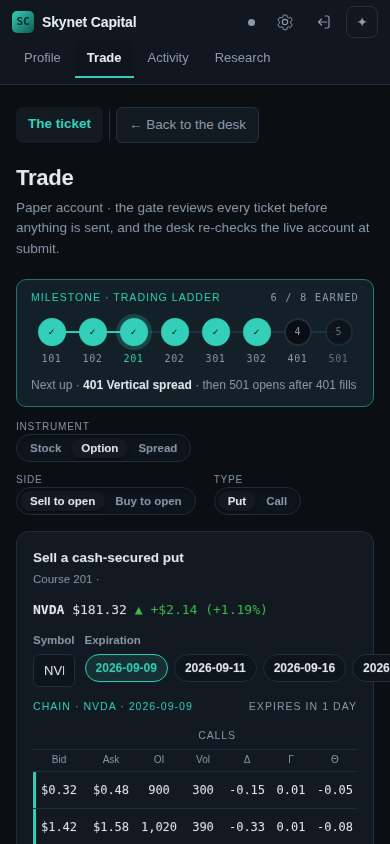
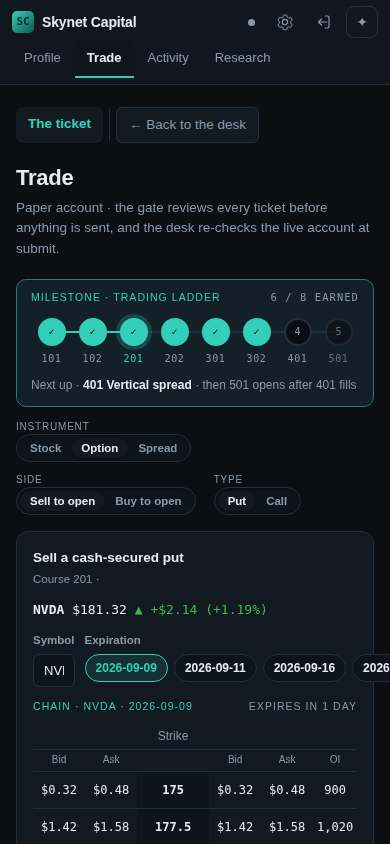
fix(trade): centre the chain's base five columns, greeks/OI/vol scroll outward
Summary: the unscrolled straddle view was showing calls' OI/Vol/greeks instead
of Strike and the Puts side — a real regression against this component's own
core promise (five columns visible by default, nothing else). Reordered each
side's 8 columns so Bid/Ask stays adjacent to Strike (matching the base view
exactly) with the 6 stat columns moved to the outer edge, and the scroll
container now opens with an initial `scrollLeft` offset so the base five are
what's actually on screen, not merely reachable by scrolling.

Why: mobile-first curation (CLAUDE.md) requires the base five to be the
default view a member sees at 390px, never gated behind a scroll they don't
know to make.

Fix to #2017 Phase 1 slice 14, found in review.

Claude-Session: https://claude.ai/code/session_01Fz8US5DNYihvfhG2c9Kpcb

Changed region(s): [[0.3692, 0.8626, 0.9231, 0.9858], [0.0615, 0.9242, 0.0923, 1.0], [0.3077, 0.9242, 0.3385, 0.9858]]

diff --git a/app/src/shell/straddle-view.tsx b/app/src/shell/straddle-view.tsx
@@ -1,5 +1,5 @@
 import type { ReactElement } from "react";
-import { useState } from "react";
+import { useEffect, useRef, useState } from "react";
 import type { ChainRow } from "../live/options";
 import {
   daysToExpiry,
@@ -18,6 +18,13 @@ import { EarningsBadge } from "./earnings-badge";
  *  markup can never drift apart. */
 const TOTAL_COLUMNS = 17;
 
+/** Width of calls' 6 stat columns (`OI, Vol, Δ, Γ, Θ, Vega`) in px — the initial `scrollLeft`
+ *  offset that opens the view on the base five instead of calls' stats (see the FIX note above).
+ *  `44` mirrors `.straddle-col-stat`'s width in `straddle.css`; there's no clean way to share a
+ *  single literal across the `.ts`/`.css` boundary, so keep the two in sync by hand if either
+ *  changes. */
+const CALLS_STAT_WIDTH = 6 * 44;
+
 /**
  * THE STRADDLE VIEW (#1481, slice 1) — one expiration's chain as the entry instrument: strike down
  * the centre, call bid/ask to the left, put bid/ask to the right, a "Current price" divider row,
@@ -26,15 +33,29 @@ const TOTAL_COLUMNS = 17;
  * interest and the four core greeks now ship too (#2017 Phase 1 slice 14, below) — last trade
  * price is still out of scope, the one column this component's base-five promise still owes.
  *
- * Mobile-first: five narrow mono columns fit 390px without scrolling; the window keeps ±8 strikes
- * around the divider and says how many it hid. A row click is a PRESET — it hands the strike to
- * the ticket's `pickStrike`, which also seeds the limit from the quoted mid. Nothing here prices
- * anything: every number is the server's, drawn verbatim, "—" where the feed had none.
+ * Mobile-first: the base five (Calls Bid/Ask, Strike, Puts Bid/Ask) are what's actually ON SCREEN
+ * at 390px, by construction, not just by column count — see the fix below. The window keeps ±8
+ * strikes around the divider and says how many it hid. A row click is a PRESET — it hands the
+ * strike to the ticket's `pickStrike`, which also seeds the limit from the quoted mid. Nothing
+ * here prices anything: every number is the server's, drawn verbatim, "—" where the feed had none.
  *
  * Open interest, volume, and the four core greeks (delta/gamma/theta/vega) ship as scroll-out
- * columns past the base five (#2017 Phase 1 slice 14) — the SAME `.straddle-scroll` horizontal
- * container, just more columns, exactly as this comment used to promise. They are plain, never
- * clickable (only Bid/Ask/Strike are presets). "Last trade price" and rho stay out of scope.
+ * columns past the base five (#2017 Phase 1 slice 14), in the SAME `.straddle-scroll` horizontal
+ * container, just more columns. They are plain, never clickable (only Bid/Ask/Strike are presets).
+ * "Last trade price" and rho stay out of scope.
+ *
+ * FIX (found in review, #2017 Phase 1 slice 14): the six stat columns per side originally sat
+ * BETWEEN Bid/Ask and Strike (`Bid, Ask, OI, Vol, Δ, Γ, Θ, Vega`), so an unscrolled 390px view —
+ * `.straddle-scroll` starts at `scrollLeft: 0` — showed calls' stats instead of Strike and the
+ * Puts side, breaking the base-five promise above. Fixed two ways together: (1) each side's 8
+ * columns are now ordered with the stats on the OUTER edge, away from Strike — Calls reads
+ * `OI, Vol, Δ, Γ, Θ, Vega, Bid, Ask` (stats then Bid/Ask, closest to Strike), Puts reads
+ * `Bid, Ask, OI, Vol, Δ, Γ, Θ, Vega` (Bid/Ask closest to Strike, then stats) — so Bid/Ask/Strike
+ * are contiguous in the DOM; (2) the scroll container opens with an initial `scrollLeft` offset
+ * (see the mount effect below) equal to the width of calls' six stat columns, so that contiguous
+ * base five is what's actually visible by default, not merely reachable. A member can still swipe
+ * LEFT of that offset for calls' OI/Vol/greeks, or RIGHT past Puts' Bid/Ask for puts' OI/Vol/
+ * greeks — both directions, both discoverable via the same "scroll for more" affordance.
  *
  * A call or put PRICE cell can be its own preset too (#2017 Phase 0 task 4e, `onPickSide`): the
  * caller decides what a call/put pick means (in `OptionGate`, it can also switch Side/Type when
@@ -71,6 +92,20 @@ export function StraddleView({
   const all = mergeStraddle(calls, puts);
   const { rows, hidden } = showAll ? { rows: all, hidden: 0 } : windowRows(all, spot);
   const divider = dividerIndex(rows, spot);
+  const scrollRef = useRef<HTMLDivElement>(null);
+  // Open centred on the base five (Calls Bid/Ask, Strike, Puts Bid/Ask) — see the header comment's
+  // FIX note. A plain `scrollLeft` assignment (not `scrollTo({ behavior: "smooth" })`) is instant,
+  // not animated, so it respects `prefers-reduced-motion` for free — there's no motion to reduce.
+  // `StraddleView` isn't remounted per expiration (no `key` at either call site,
+  // `chain-straddle.tsx` / `option-gate.tsx`), so `symbol`/`expiration` ARE the trigger for
+  // re-running this on a fresh chain rather than relying on a fresh mount; it does NOT depend on
+  // `selectedStrike` or other props, so picking a strike never resets a member's own scroll
+  // position.
+  // biome-ignore lint/correctness/useExhaustiveDependencies: symbol/expiration ARE the trigger
+  useEffect(() => {
+    const el = scrollRef.current;
+    if (el) el.scrollLeft = CALLS_STAT_WIDTH;
+  }, [symbol, expiration]);
   return (
     <section className="straddle" aria-label={`Options chain for ${symbol}`}>
       <div className="straddle-head">
@@ -80,7 +115,7 @@ export function StraddleView({
         <span className="straddle-dte">{expiresIn(daysToExpiry(expiration, now))}</span>
       </div>
       <EarningsBadge symbol={symbol} now={now} />
-      <div className="straddle-scroll">
+      <div className="straddle-scroll" ref={scrollRef}>
         <table className="straddle-table">
           <colgroup>
             {/* Bid/Ask/OI/Vol/Δ/Γ/Θ/Vega × 2 sides + Strike = 17 columns total (`TOTAL_COLUMNS`).
@@ -88,15 +123,16 @@ export function StraddleView({
                 container and `.straddle-scroll`'s overflow-x kicks in, instead of the 5-column
                 percentage layout compressing to fit — `table-layout: fixed` only honors the FIRST
                 row's per-column cells, and that row is the colSpan=8 group header, so widths live
-                on `<col>` here rather than on the sub-header `<th>`s below. */}
+                on `<col>` here rather than on the sub-header `<th>`s below. Order per side matches
+                the fix above: stats on the OUTER edge, Bid/Ask adjacent to Strike. */}
+            <col className="straddle-col-stat" />
+            <col className="straddle-col-stat" />
+            <col className="straddle-col-stat" />
+            <col className="straddle-col-stat" />
+            <col className="straddle-col-stat" />
+            <col className="straddle-col-stat" />
             <col className="straddle-col-bidask" />
             <col className="straddle-col-bidask" />
-            <col className="straddle-col-stat" />
-            <col className="straddle-col-stat" />
-            <col className="straddle-col-stat" />
-            <col className="straddle-col-stat" />
-            <col className="straddle-col-stat" />
-            <col className="straddle-col-stat" />
             <col className="straddle-col-strike" />
             <col className="straddle-col-bidask" />
             <col className="straddle-col-bidask" />
@@ -118,14 +154,14 @@ export function StraddleView({
               </th>
             </tr>
             <tr className="straddle-sub">
-              <th>Bid</th>
-              <th>Ask</th>
               <th className="straddle-stat">OI</th>
               <th className="straddle-stat">Vol</th>
               <th className="straddle-stat">Δ</th>
               <th className="straddle-stat">Γ</th>
               <th className="straddle-stat">Θ</th>
               <th className="straddle-stat">Vega</th>
+              <th>Bid</th>
+              <th>Ask</th>
               <th />
               <th>Bid</th>
               <th>Ask</th>
@@ -204,14 +240,14 @@ function RowGroup({
     <>
       {divider && spot !== undefined ? <DividerRow spot={spot} /> : null}
       <tr className={cls} onClick={onPick ? () => onPick(row.strike) : undefined}>
-        <SideCell value={row.call?.bid} strike={row.strike} side="call" onPickSide={onPickSide} />
-        <SideCell value={row.call?.ask} strike={row.strike} side="call" onPickSide={onPickSide} />
         <StatCell value={row.call?.openInterest} kind="count" />
         <StatCell value={row.call?.volume} kind="count" />
         <StatCell value={row.call?.delta} kind="greek" />
         <StatCell value={row.call?.gamma} kind="greek" />
         <StatCell value={row.call?.theta} kind="greek" />
         <StatCell value={row.call?.vega} kind="greek" />
+        <SideCell value={row.call?.bid} strike={row.strike} side="call" onPickSide={onPickSide} />
+        <SideCell value={row.call?.ask} strike={row.strike} side="call" onPickSide={onPickSide} />
         <td className="straddle-strike num">
           {onPick ? (
             <button

diff --git a/app/tests/shell/straddle-view.spec.tsx b/app/tests/shell/straddle-view.spec.tsx
@@ -180,4 +180,77 @@ describe("StraddleView — scroll-out stat columns", () => {
     const divider = container.querySelector(".straddle-divider td");
     expect(divider?.getAttribute("colspan")).toBe("17");
   });
+
+  it("orders calls' stats on the outer edge and Bid/Ask adjacent to Strike, mirrored on puts", () => {
+    const { container } = render(
+      <StraddleView
+        symbol="NVDA"
+        expiration="2026-09-18"
+        spot={180}
+        calls={[fullRow]}
+        puts={[fullPut]}
+      />,
+    );
+    const subHeaders = Array.from(container.querySelectorAll(".straddle-sub th")).map(
+      (th) => th.textContent,
+    );
+    // Calls: stats first (outer edge), then Bid/Ask (adjacent to Strike) — Puts: unchanged.
+    expect(subHeaders).toEqual([
+      "OI",
+      "Vol",
+      "Δ",
+      "Γ",
+      "Θ",
+      "Vega",
+      "Bid",
+      "Ask",
+      "", // Strike's empty sub-header cell.
+      "Bid",
+      "Ask",
+      "OI",
+      "Vol",
+      "Δ",
+      "Γ",
+      "Θ",
+      "Vega",
+    ]);
+
+    const rowCells = Array.from(
+      container.querySelectorAll("tbody tr.straddle-row")[0]?.children ?? [],
+    );
+    // Same order in the body row: calls' first cell is the OI stat, not Bid — the outer edge — and
+    // the 7th/8th cells (Bid/Ask) sit immediately left of Strike (the 9th).
+    expect(rowCells[0]?.textContent).toBe("8,213"); // calls OI
+    expect(rowCells[5]?.textContent).toBe("0.53"); // calls vega
+    expect(rowCells[6]?.textContent).toBe("$4.80"); // calls bid
+    expect(rowCells[7]?.textContent).toBe("$5.20"); // calls ask
+    expect(rowCells[8]?.textContent).toBe("180"); // strike
+    expect(rowCells[9]?.textContent).toBe("$3.10"); // puts bid
+    expect(rowCells[10]?.textContent).toBe("$3.40"); // puts ask
+  });
+
+  it("opens scrolled past calls' stat columns so the base five are visible by default", () => {
+    const { container } = render(
+      <StraddleView symbol="NVDA" expiration="2026-09-18" spot={180} calls={calls} puts={puts} />,
+    );
+    const scroll = container.querySelector(".straddle-scroll") as HTMLDivElement | null;
+    expect(scroll).not.toBeNull();
+    // 6 stat columns × 44px (`.straddle-col-stat` in straddle.css) = 264px — set imperatively by
+    // the mount effect, not by real layout (happy-dom doesn't compute pixel widths), so this
+    // asserts the effect ran and wrote the expected offset, not rendered geometry.
+    expect(scroll?.scrollLeft).toBe(264);
+  });
+
+  it("re-scrolls to the base five when the expiration changes (no remount boundary at either call site)", () => {
+    const { container, rerender } = render(
+      <StraddleView symbol="NVDA" expiration="2026-09-18" spot={180} calls={calls} puts={puts} />,
+    );
+    const scroll = container.querySelector(".straddle-scroll") as HTMLDivElement;
+    // Simulate a member having scrolled away from the default offset before the expiration changes.
+    scroll.scrollLeft = 0;
+    rerender(
+      <StraddleView symbol="NVDA" expiration="2026-10-16" spot={180} calls={calls} puts={puts} />,
+    );
+    expect(scroll.scrollLeft).toBe(264);
+  });
 });
